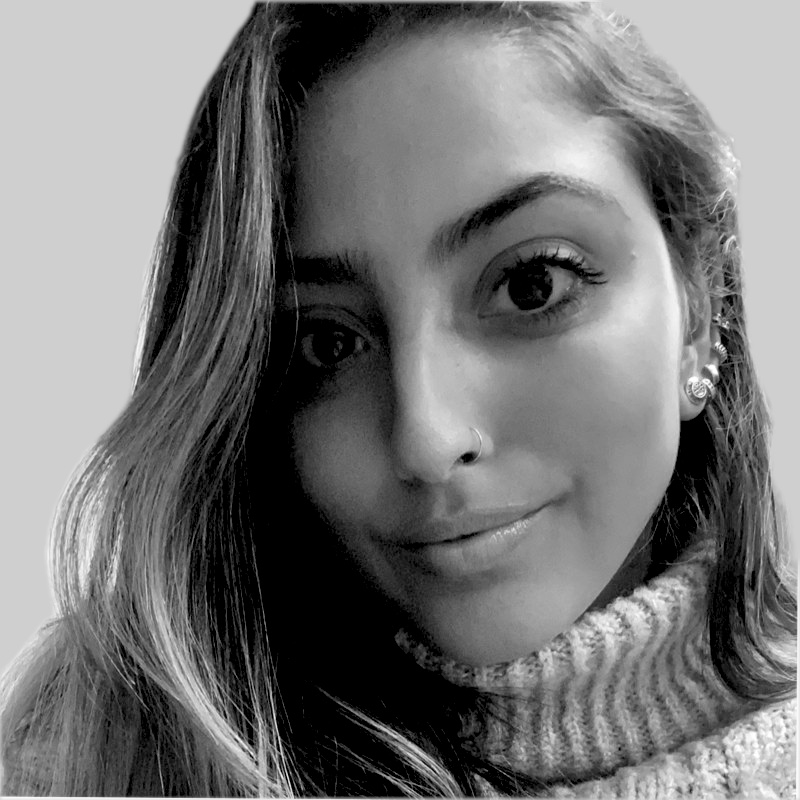
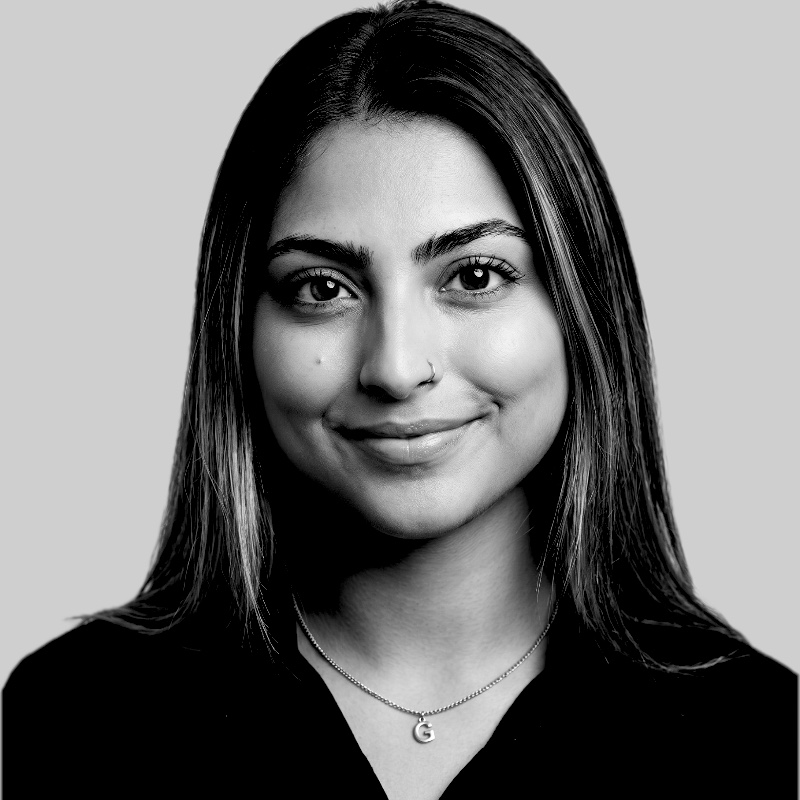
Team: new portraits for Gabriela and Guilherme

diff --git a/team.html b/team.html
@@ -270,7 +270,7 @@
     <h1>Team</h1>
   </div>
   <div class="wrap team-grid">
-    <article class="member lead"><img class="portrait" src="/team/elmo.jpg" alt="Portrait of Elmo Gomes" width="800" height="800" loading="lazy"><div><p class="role">Founder</p><h2>Elmo Gomes</h2><ul><li>Former global executive at a leading pharmaceutical company for over 20 years</li><li>PhD in Economics, University of Hertfordshire, UK</li><li>Health Economics, Harvard University</li><li>Technology development for several startups, including Playback Aps, Clime GmbH, MedIAudit and Calendafy Plt</li><li><a href="mailto:elmo.gomes@pharmaccelerator.ai">elmo.gomes@pharmaccelerator.ai</a></li></ul></div></article><article class="member"><img class="portrait" src="/team/guilherme.jpg" alt="Portrait of Guilherme Bassi" width="800" height="800" loading="lazy"><p class="role">CTO</p><h2>Guilherme Bassi</h2><ul><li>Software developer and AI engineer</li><li>BSc in Technology, Estácio</li><li>Projects for Instituto de Informática (Segurança Social, CPCJ), Mobi.E, Rádio Popular, Comboios de Portugal (CP), AMA (gov.pt) and Câmara Municipal do Porto</li></ul></article><article class="member"><img class="portrait" src="/team/gabriela.jpg" alt="Portrait of Gabriela Esteves" width="800" height="800" loading="lazy"><p class="role">Generative AI Evaluator</p><h2>Gabriela Esteves</h2><ul><li>RLHF and LLM training</li><li>Multilingual AI specialist and model training QA</li><li>Trainer in Portuguese, English, French and Italian</li></ul></article><article class="member"><div class="portrait initials" role="img" aria-label="Juliana Mello">JM</div><p class="role">AI Data Curator Intern · Pharmaceutical Sciences</p><h2>Juliana Mello</h2><ul><li>Pharmaceutical Sciences BSc student</li></ul></article><article class="member"><img class="portrait" src="/team/miguel.jpg" alt="Portrait of Miguel Gomes" width="800" height="800" loading="lazy"><p class="role">AI Data Curator Intern · Economics and Finance</p><h2>Miguel Gomes</h2><ul><li>MSc student</li><li>BSc in Finance, ISEG, Universidade de Lisboa</li></ul></article>
+    <article class="member lead"><img class="portrait" src="/team/elmo.jpg" alt="Portrait of Elmo Gomes" width="800" height="800" loading="lazy"><div><p class="role">Founder</p><h2>Elmo Gomes</h2><ul><li>Former global executive at a leading pharmaceutical company for over 20 years</li><li>PhD in Economics, University of Hertfordshire, UK</li><li>Health Economics, Harvard University</li><li>Technology development for several startups, including Playback Aps, Clime GmbH, MedIAudit and Calendafy Plt</li><li><a href="mailto:elmo.gomes@pharmaccelerator.ai">elmo.gomes@pharmaccelerator.ai</a></li></ul></div></article><article class="member"><img class="portrait" src="/team/guilherme.jpg?v=2" alt="Portrait of Guilherme Bassi" width="800" height="800" loading="lazy"><p class="role">CTO</p><h2>Guilherme Bassi</h2><ul><li>Software developer and AI engineer</li><li>BSc in Technology, Estácio</li><li>Projects for Instituto de Informática (Segurança Social, CPCJ), Mobi.E, Rádio Popular, Comboios de Portugal (CP), AMA (gov.pt) and Câmara Municipal do Porto</li></ul></article><article class="member"><img class="portrait" src="/team/gabriela.jpg?v=2" alt="Portrait of Gabriela Esteves" width="800" height="800" loading="lazy"><p class="role">Generative AI Evaluator</p><h2>Gabriela Esteves</h2><ul><li>RLHF and LLM training</li><li>Multilingual AI specialist and model training QA</li><li>Trainer in Portuguese, English, French and Italian</li></ul></article><article class="member"><div class="portrait initials" role="img" aria-label="Juliana Mello">JM</div><p class="role">AI Data Curator Intern · Pharmaceutical Sciences</p><h2>Juliana Mello</h2><ul><li>Pharmaceutical Sciences BSc student</li></ul></article><article class="member"><img class="portrait" src="/team/miguel.jpg" alt="Portrait of Miguel Gomes" width="800" height="800" loading="lazy"><p class="role">AI Data Curator Intern · Economics and Finance</p><h2>Miguel Gomes</h2><ul><li>MSc student</li><li>BSc in Finance, ISEG, Universidade de Lisboa</li></ul></article>
   </div>
   <section class="remote">
     <div class="wrap">
